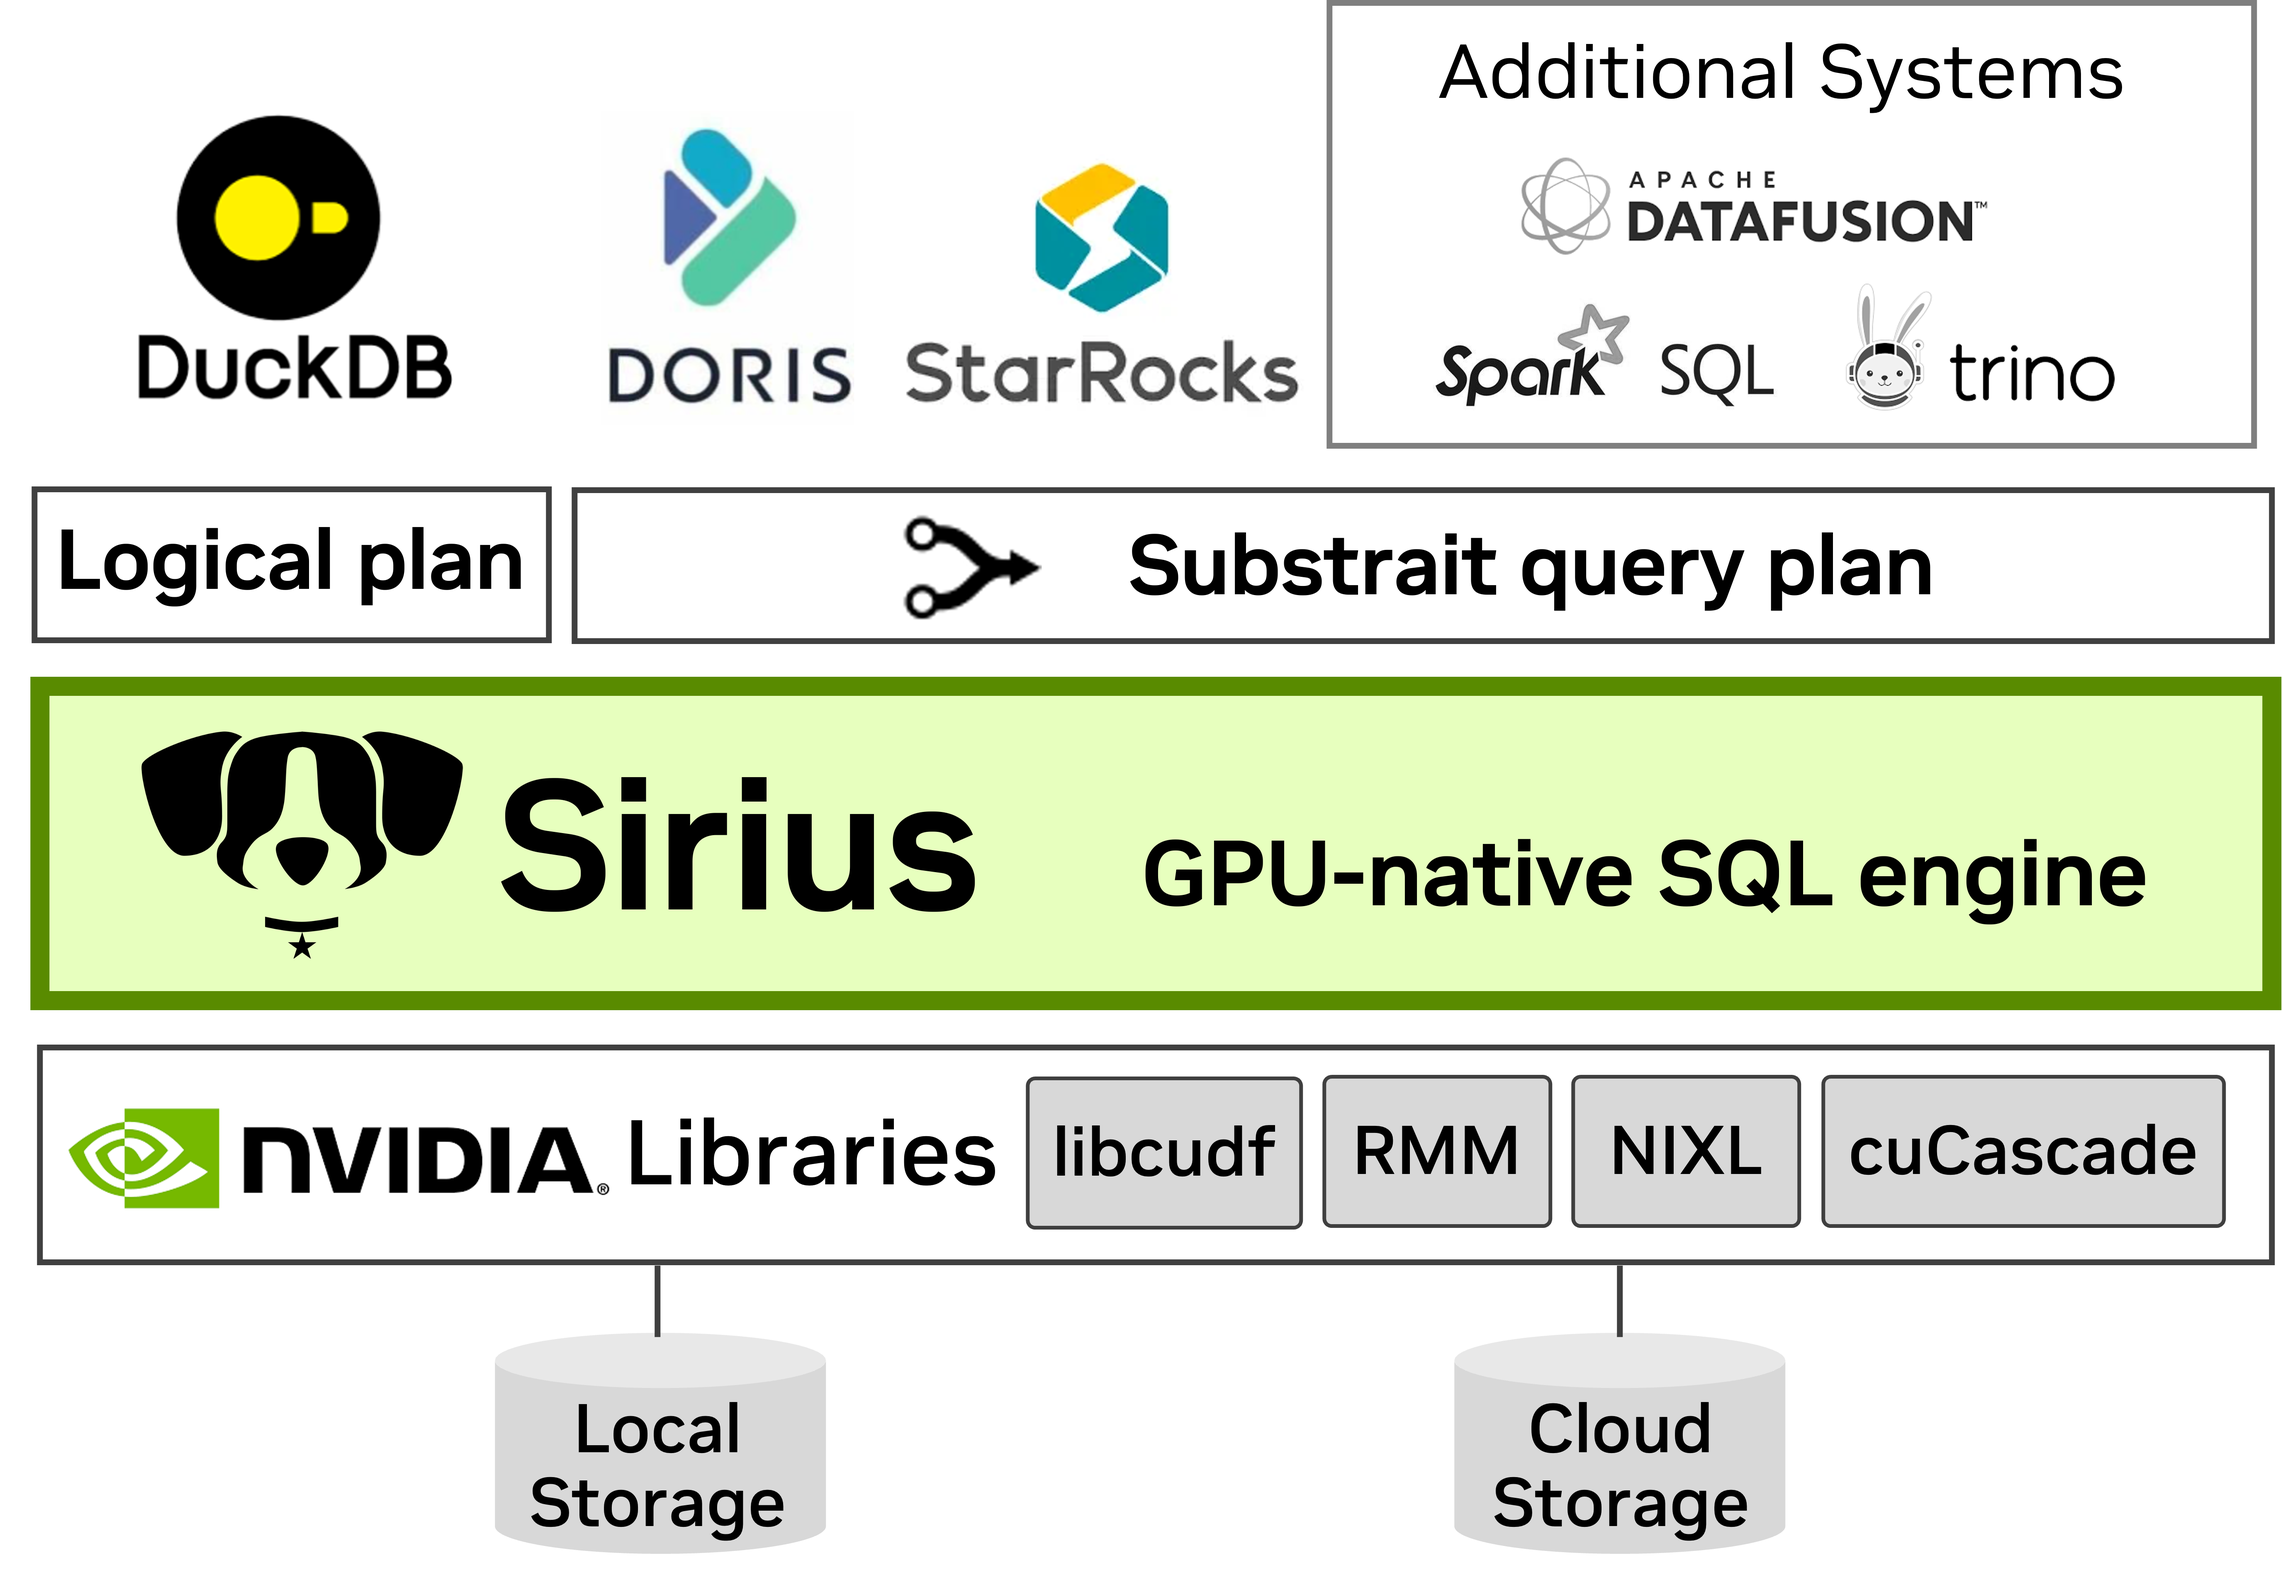
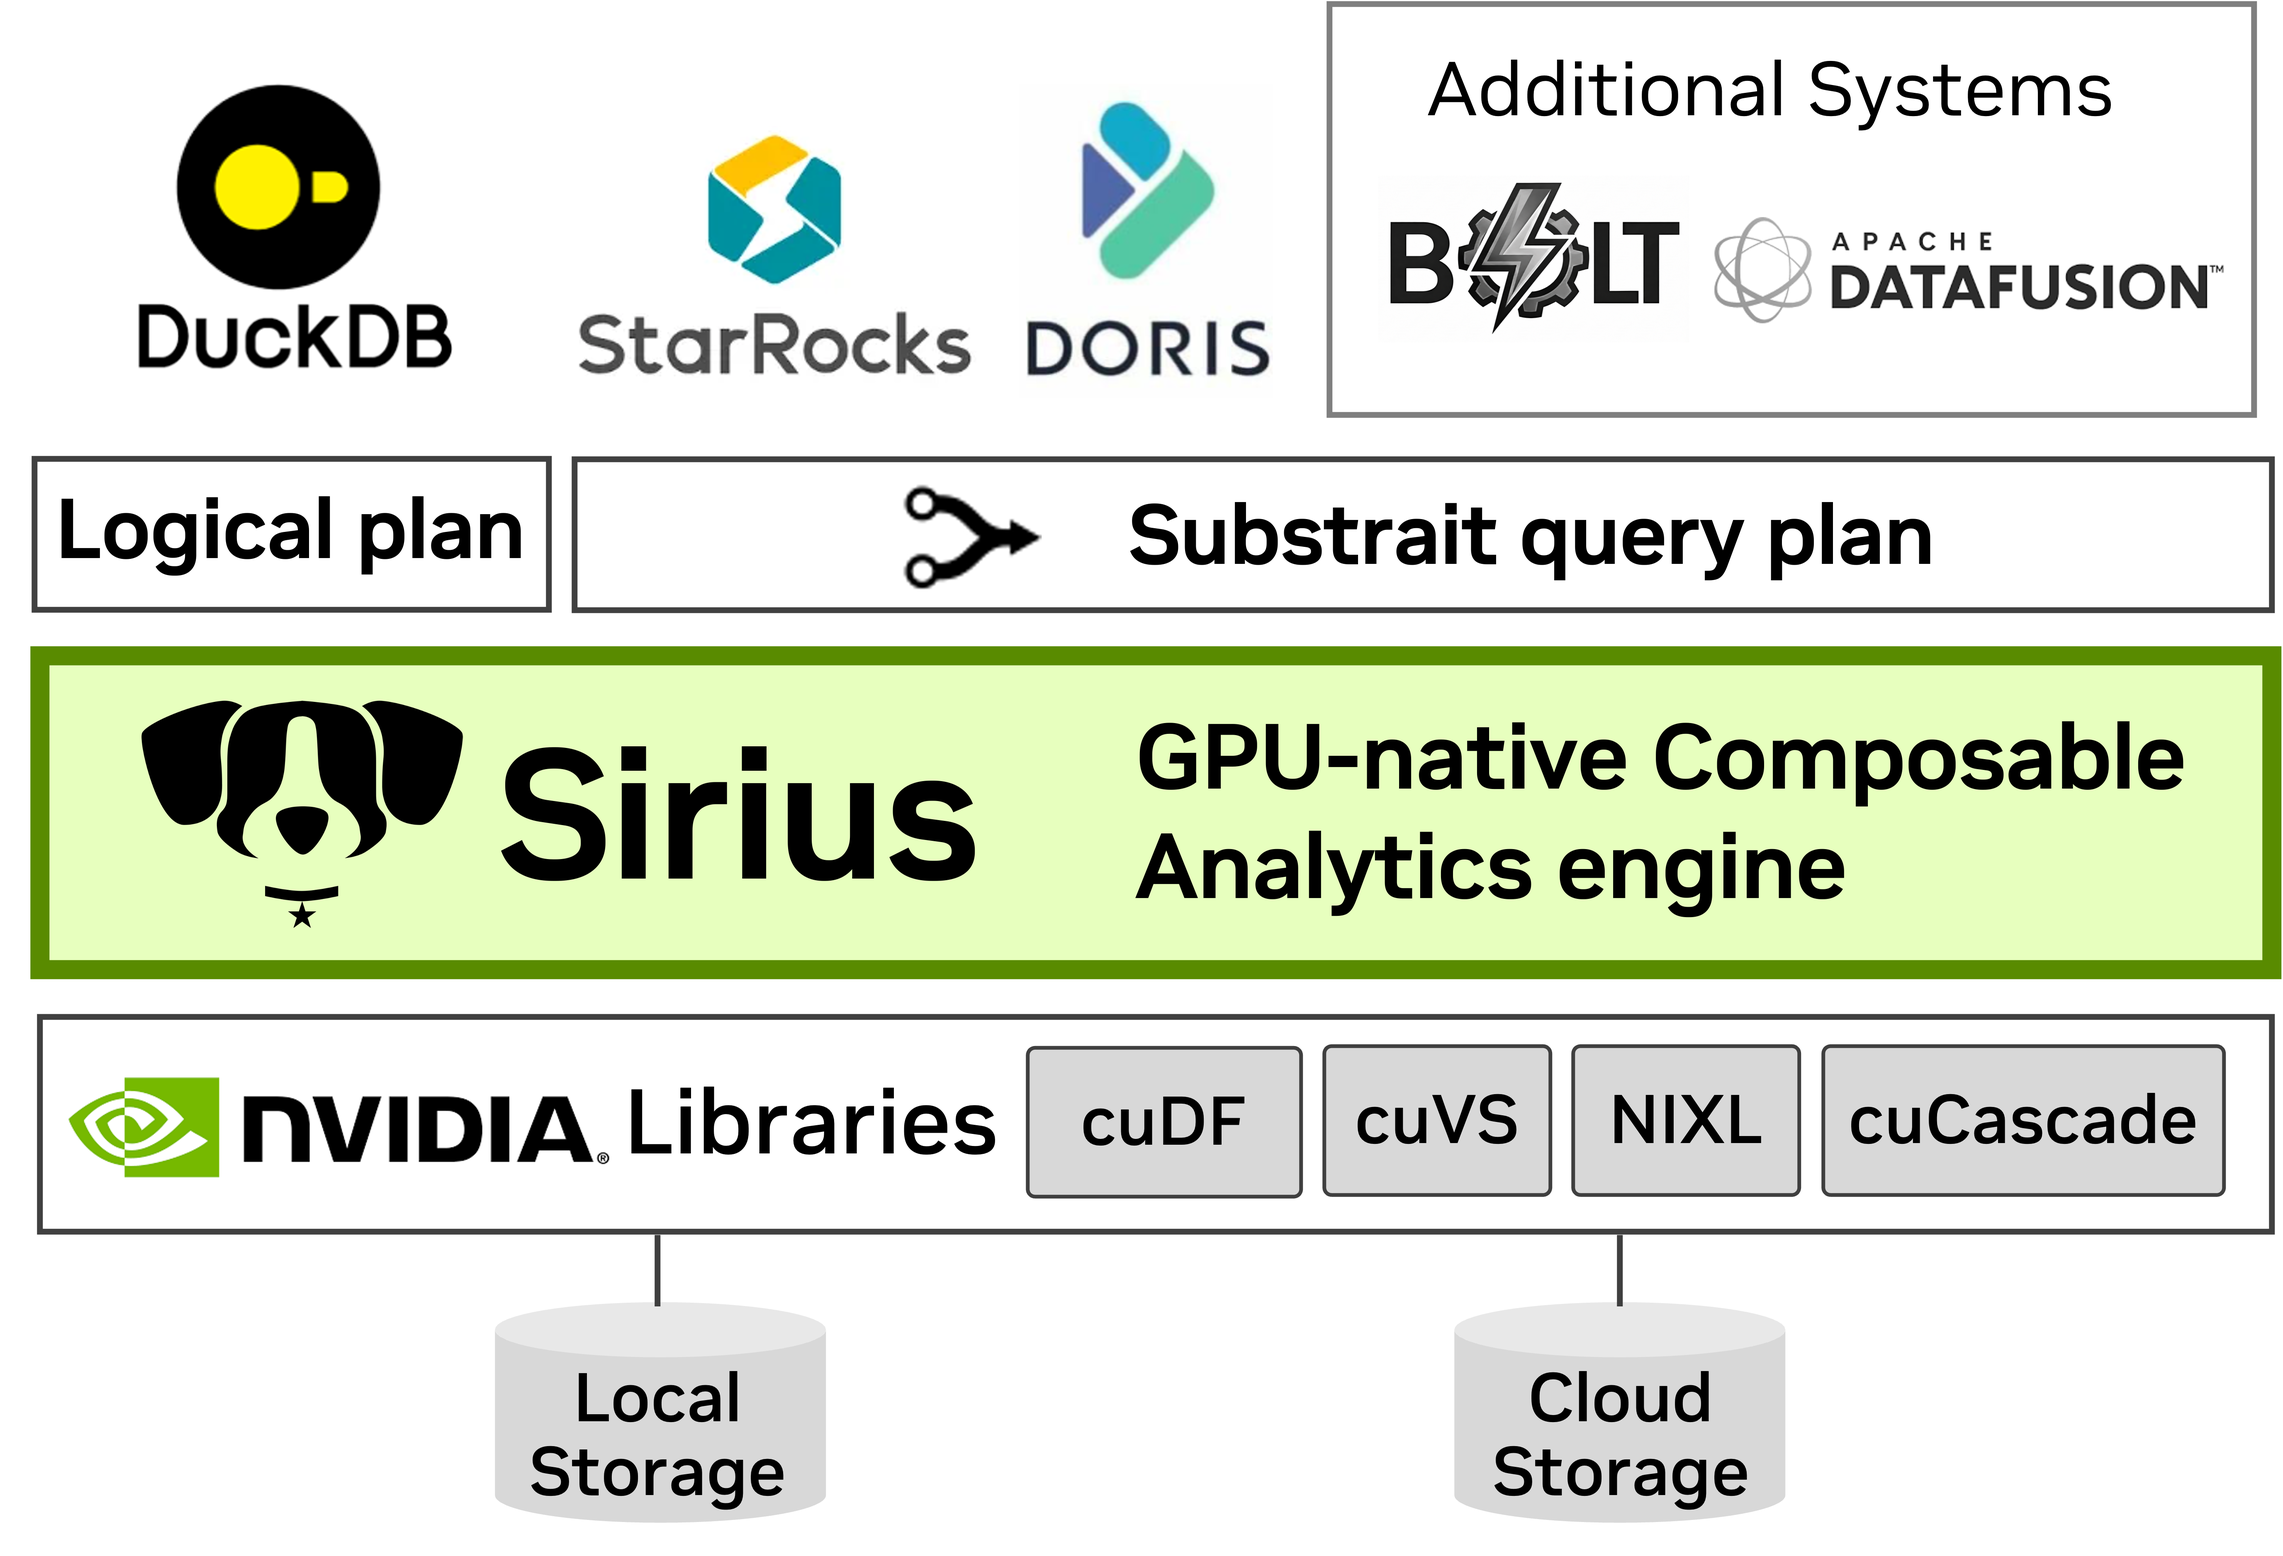
docs: refresh README branding, Python usage, and compression

diff --git a/docs/README.md b/docs/README.md
@@ -10,20 +10,17 @@
   </a>
 </p>
 
-Sirius is a GPU-native SQL engine. It plugs into existing databases such as DuckDB via the standard Substrait query format, requiring no query rewrites or major system changes. Sirius currently supports DuckDB and Starrocks (coming soon), other systems marked with * are on our roadmap. Built on NVIDIA CUDA-X libraries including cuDF and RAPIDS Memory Manager (RMM), Sirius delivers high-performance GPU-accelerated analytics.
+Sirius is a GPU-Native Composable Analytics Engine. It plugs into existing databases such as DuckDB via the standard Substrait query format, requiring no query rewrites or major system changes. Sirius currently supports DuckDB and Starrocks (coming soon), other systems marked with * are on our roadmap. Built on NVIDIA CUDA-X libraries including cuDF and RAPIDS Memory Manager (RMM), Sirius delivers high-performance GPU-accelerated analytics.
 
 <p align="center">
-  <picture>
-    <source media="(prefers-color-scheme: dark)" srcset="super-sirius-arch-dark.png">
-    <source media="(prefers-color-scheme: light)" srcset="super-sirius-arch.png">
-    <img src="super-sirius-arch.png" alt="Sirius architecture" width="700"/>
-  </picture>
+  <img src="super-sirius-arch.png" alt="Sirius architecture: a GPU-Native Composable Analytics Engine" width="700"/>
 </p>
 
 ## Performance
-Running TPC-H on 1TB data, Sirius accelerates DuckDB by 5x on DGX Station (GB300).
 
-![Performance](super-sirius-perf.png)
+TPC-H hot runs on AWS, 22 queries · best Sirius g7e size vs DuckDB on m9g.16xlarge · cost per run, log scales · lower left is better.
+
+![TPC-H hot-run query time and cost per run on AWS: Sirius versus DuckDB](super-sirius-perf.png)
 
 ## Requirements
 - Linux on amd64/x86_64 or arm64/aarch64 with `glibc >= 2.28`.
@@ -72,6 +69,53 @@ SET gpu_execution = false;
 
 Execution is out-of-core with tiered memory management (GPU/host/disk), automatic data partitioning, and spilling, and works with both **Parquet** and **DuckDB-native** storage. See [`gpu_execution`](gpu_execution.md) for build, configuration, and testing details.
 
+## Python API
+
+Use Sirius through DuckDB's Python API: load the extension, execute SQL, and fetch results.
+Supported queries run on the GPU automatically, just as they do in the DuckDB shell.
+
+After building Sirius above, run these commands from the repository root to build the Python
+package against the same DuckDB source as the extension:
+
+```bash
+git submodule update --init --depth=1 duckdb-python
+pixi run -e duckdb-python build-duckdb-python
+```
+
+Save this example as `example.py` in the repository root and replace `/path/to/lineitem.parquet`
+with your TPC-H Parquet file. `allow_unsigned_extensions` allows loading the locally built
+extension.
+
+```python
+import duckdb
+
+con = duckdb.connect(":memory:", config={"allow_unsigned_extensions": "true"})
+con.execute("""
+    CREATE VIEW lineitem AS
+    SELECT * FROM read_parquet('/path/to/lineitem.parquet')
+""")
+
+con.execute("LOAD 'build/release/extension/sirius/sirius.duckdb_extension'")
+rows = con.execute("""
+    SELECT l_returnflag, SUM(l_quantity) AS total_quantity
+    FROM lineitem
+    GROUP BY l_returnflag
+    ORDER BY l_returnflag
+""").fetchall()
+
+print(rows)
+con.close()
+```
+
+Run it from the repository root:
+
+```bash
+pixi run -e duckdb-python python example.py
+```
+
+For an example using TPC-H data from Parquet files or a DuckDB database, see the
+[Python benchmark script](../test/tpch_performance/performance_test.py).
+
 ## Pinning Tables for Hot Runs
 
 Sirius reads table data from storage on every query. For the best hot-run performance, pin
@@ -104,6 +148,39 @@ Deletes and committed inserts on pinned DuckDB tables are reconciled per query. 
 pinned; run `CALL unpin_table(...)` before updating it. An explicit `CHECKPOINT` while a pin is
 live makes that pin ineligible to serve: subsequent queries fall back or error until the table is
 unpinned and pinned again.
+
+### Compression with Simpatico
+
+Sirius can use Simpatico to compress pinned data in GPU or host memory. After loading Sirius,
+set both compression options **before** calling `pin_table`. This example runs from the
+repository root and uses the bundled TPC-H SF1000 compression plans:
+
+```sql
+SET pin_table_compression = true;
+SET pin_table_input_compression_plan_dir = 'src/compression/simpatico_codegen/plans/tpch_sf1000';
+
+CALL pin_table('/path/to/lineitem.parquet', name = 'lineitem', tier = 'gpu',
+               cols = ['l_returnflag', 'l_quantity']);
+
+-- Normal SQL reads the compressed pinned data automatically
+SELECT l_returnflag, SUM(l_quantity) AS total_quantity
+FROM read_parquet('/path/to/lineitem.parquet')
+GROUP BY l_returnflag
+ORDER BY l_returnflag;
+
+CALL unpin_table('lineitem');
+```
+
+Use `tier = 'host'` to pin compressed data in host memory. For other datasets, point the plan
+directory at plans matching your table schemas. A plan file must match the pinned table's
+`name` (for example, `lineitem.txt`) and contain one column plan per full-table column in schema
+order. Tables without a matching plan, small batches, and batches with insufficient compression
+savings remain uncompressed. To change whether an existing pin is compressed, unpin and pin it
+again. Restart the process when changing a previously loaded compression plan.
+
+From Python, execute the same SQL with `con.execute(...)` after loading the extension and before
+querying. See the [compressed pinning guide](super-sirius/compressed-pinning.md) for plan selection
+and tuning.
 
 ## Configuration
 
